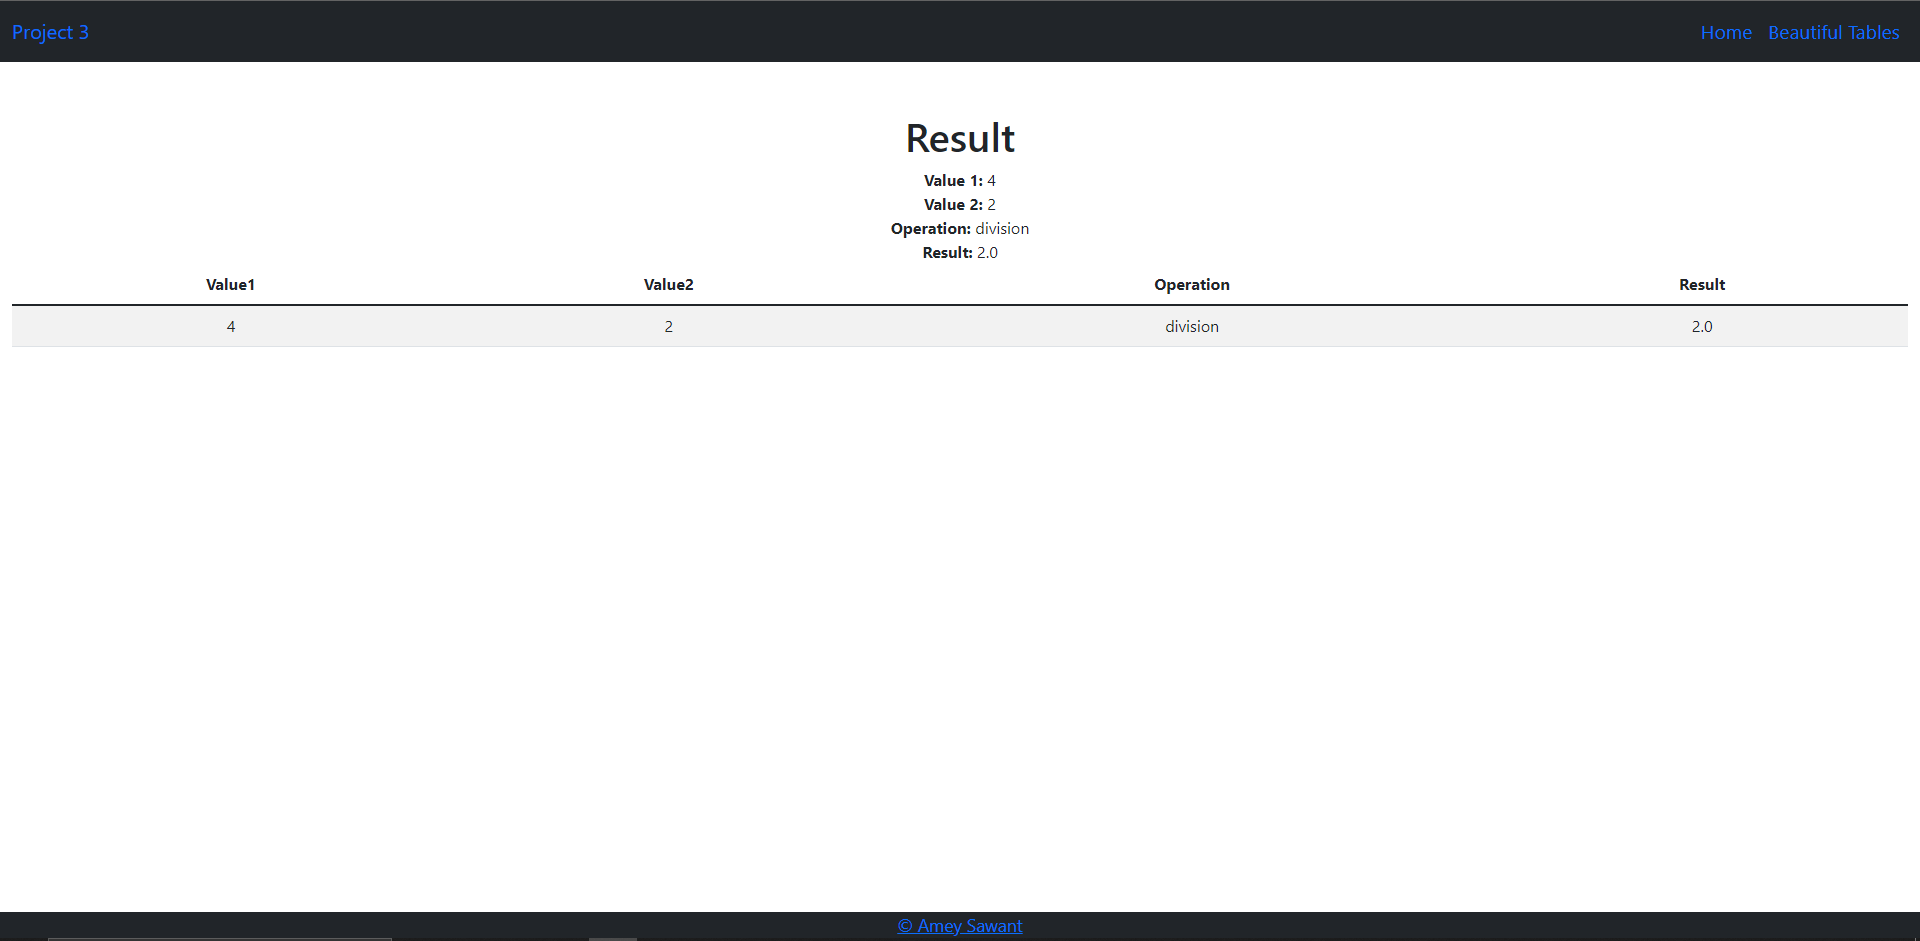
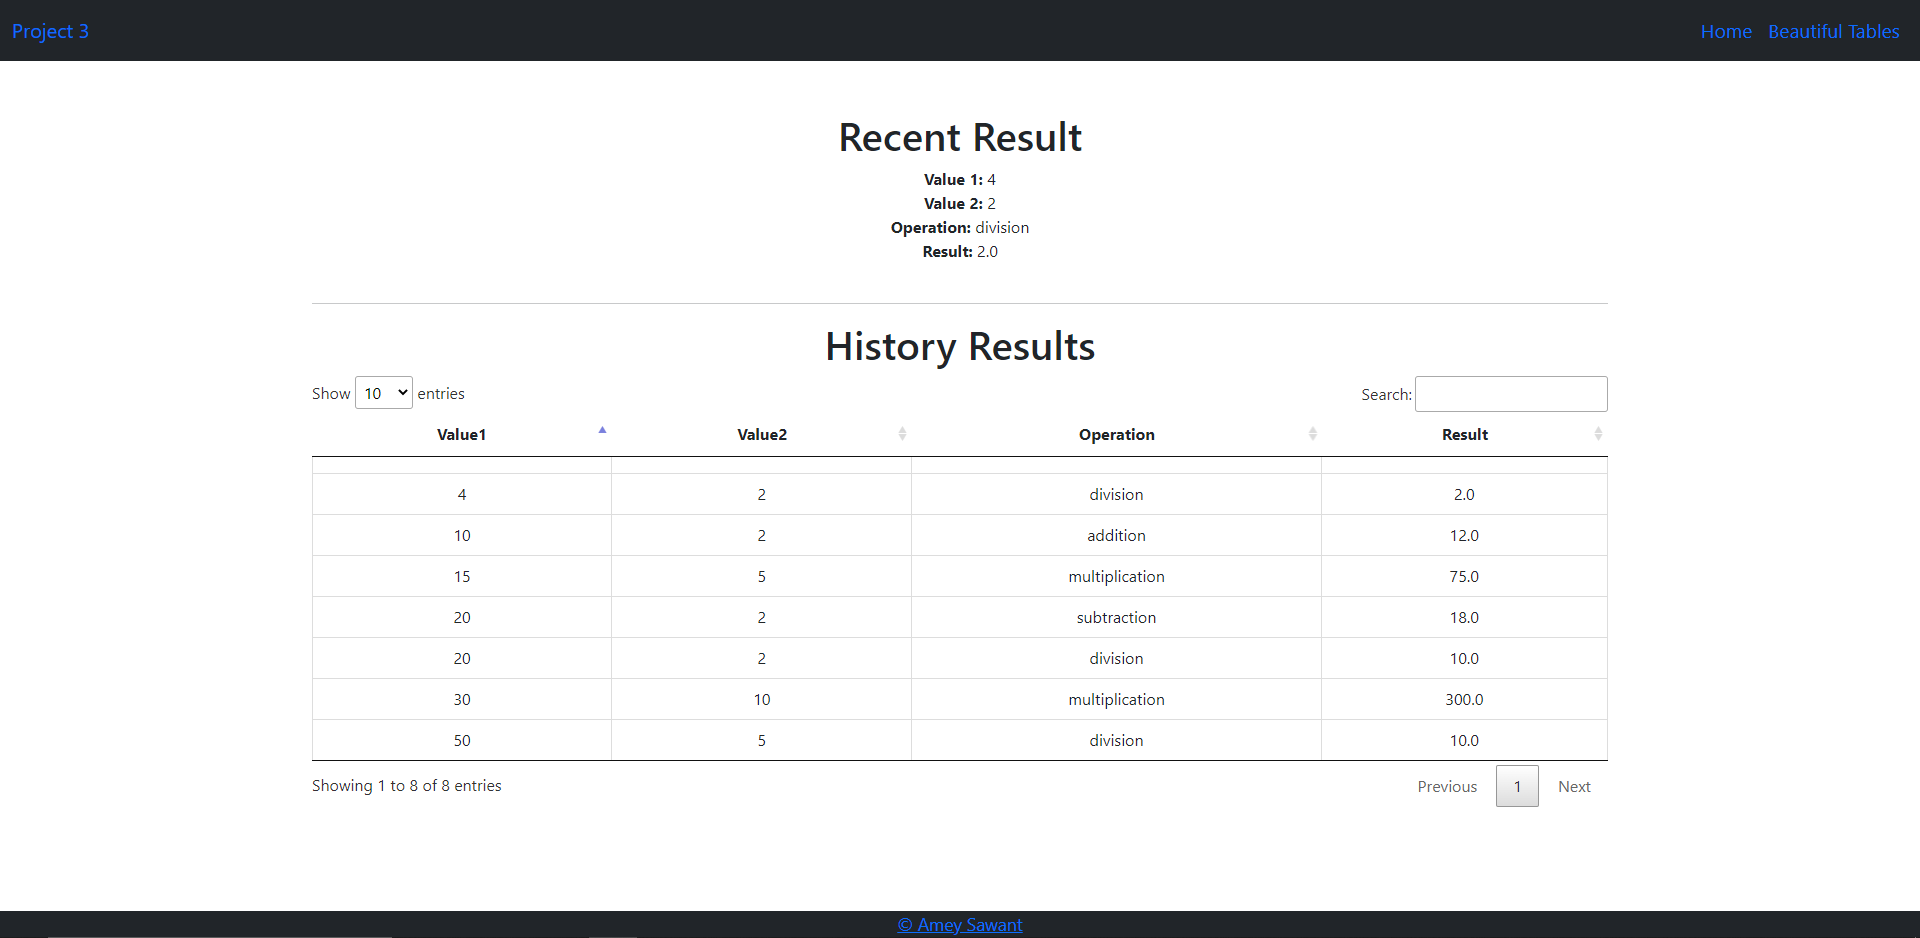
Beautiful Tables Updated

diff --git a/app/templates/result.html b/app/templates/result.html
@@ -3,30 +3,36 @@
 
 
 {% block content %}
-<h1>Result</h1>
-<strong>Value 1: </strong> {{ value1 }} <br>
-<strong>Value 2: </strong> {{ value2 }} <br>
-<strong>Operation: </strong> {{ operation }} <br>
-<strong>Result: </strong> {{ result }}
-<br/>
-
-<table id="data" class="table table-striped">
-    <thead>
-      <tr>
-        <th>Value1</th>
-        <th>Value2</th>
-        <th>Operation</th>
-        <th>Result</th>
-      </tr>
-    </thead>
-    <tbody>
+<div class="container">
+    <h1>Recent Result</h1>
+    <strong>Value 1: </strong> {{ val1 }} <br>
+    <strong>Value 2: </strong> {{ val2 }} <br>
+    <strong>Operation: </strong> {{ ope }} <br>
+    <strong>Result: </strong> {{ res }}
+    <br/><br/>
+    <hr/>
+    <h1>History Results</h1>
+    <table id="data" class="dataTable cell-border">
+        <thead>
         <tr>
-          <td>{{ value1 }}</td>
-          <td>{{ value2 }}</td>
-          <td>{{ operation }}</td>
-          <td>{{ result }}</td>
+            <th>Value1</th>
+            <th>Value2</th>
+            <th>Operation</th>
+            <th>Result</th>
         </tr>
-    </tbody>
-  </table>
-
+        </thead>
+        <tbody>
+        {% set list1 = hist.split('\n') %}
+        {% for item in list1 %}
+        {% set subitem = item.split(',') %}
+        <tr>
+            <td>{{ subitem[0] }}</td>
+            <td>{{ subitem[1] }}</td>
+            <td>{{ subitem[2] }}</td>
+            <td>{{ subitem[3] }}</td>
+        </tr>
+        {% endfor %}
+        </tbody>
+    </table>
+</div>
 {% endblock %}

diff --git a/app/templates/base.html b/app/templates/base.html
@@ -6,6 +6,7 @@
     <meta name="viewport" content="width=device-width, initial-scale=1">
     {% block head %}
     <link rel="stylesheet" href="{{ url_for('static', filename='css/mystyle.css') }}"/>
+    <link rel="stylesheet" href="https://cdn.datatables.net/1.11.3/css/jquery.dataTables.min.css">
     <title>{% block title %}{% endblock %} - My Webpage</title>
     {% endblock %}
     <!-- Bootstrap CSS -->
@@ -61,6 +62,12 @@
 <script src="https://maxcdn.bootstrapcdn.com/bootstrap/3.4.1/js/bootstrap.min.js"></script>
 <script src="https://res.cloudinary.com/dxfq3iotg/raw/upload/v1561436720/particles.js"></script>
 <script src="https://res.cloudinary.com/dxfq3iotg/raw/upload/v1561436735/app.js"></script>
+<script src="https://cdn.datatables.net/1.11.3/js/jquery.dataTables.min.js"></script>
+<script type="text/javascript">
+    $(document).ready(function () {
+        $('#data').DataTable();
+    });
+</script>
 <!-- Option 1: Bootstrap Bundle with Popper -->
 <script src="https://cdn.jsdelivr.net/npm/bootstrap@5.1.3/dist/js/bootstrap.bundle.min.js"
         integrity="sha384-ka7Sk0Gln4gmtz2MlQnikT1wXgYsOg+OMhuP+IlRH9sENBO0LRn5q+8nbTov4+1p"

diff --git a/app/app.py b/app/app.py
@@ -1,74 +1,3 @@
-# """A simple flask web app"""
-# from flask import Flask, request, flash
-# from flask import render_template
-# from calculator.main import Calculator
-#
-# app = Flask(__name__)
-#
-# app.secret_key = b'_5#y2L"F4Q8z\n\xec]/'
-#
-#
-# @app.route("/")
-# def index():
-#     """index  Route Response"""
-#     return render_template('index.html')
-#
-#
-# @app.route("/basicform", methods=['GET', 'POST'])
-# def basicform():
-#     """Post Request Handling"""
-#
-#     if request.method == 'POST':
-#         # get the values out of the form
-#         value1 = request.form['value1']
-#         value2 = request.form['value2']
-#         operation = request.form['operation']
-#
-#         # make the tuple
-#         my_tuple = (value1, value2)
-#
-#         # this will call the correct operation
-#         getattr(Calculator, operation)(my_tuple)
-#         result = str(Calculator.get_last_result_value())
-#         return render_template('result.html', value1=value1, value2=value2, operation=operation, result=result)
-#     # Displays the form because if it isn't a post it is a get request
-#     else:
-#         return render_template('/basicform.html')
-#
-#
-# @app.route("/basicform", methods=['GET', 'POST'])
-# def get_flashed_messages():
-#     # validate
-#     flash("Flash Test !!!")
-#
-#     # if request.form['value1'] == '':
-#     #     flash("Value1 cannot be empty !!!")
-#     # elif request.form['value2'] == '':
-#     #     flash("Value2 cannot be empty !!!")
-#     # else:
-#     #     flash("Performing calculation !!!")
-#
-#     return render_template('/basicform.html')
-#
-#
-#
-# @app.route("/bad/<value1>/<value2>")
-# def bad_calc(value1, value2):
-#     """bad calc Route Response"""
-#     result = value1 + value2
-#     response = "The result of the calculation is: " + result + '<a href="/"> back</a>'
-#     return response
-#
-#
-# @app.route("/good/<float:value1>/<float:value2>")
-# def good_calc(value1, value2):
-#     """good calc Route Response"""
-#     my_tuple = (value1, value2)
-#     ans = Calculator.addition(my_tuple)
-#     response = "The result of the calculation is: " + str(ans) + '<a href="/"> back</a>'
-#     return response
-#
-
 """A simple flask web app"""
 from flask import Flask
 from app.controllers.index_controller import IndexController

diff --git a/app/controllers/calculator_controller.py b/app/controllers/calculator_controller.py
@@ -26,7 +26,16 @@ class CalculatorController(ControllerBase):
             # this will call the correct operation
             getattr(Calculator, operation)(my_tuple)
             result = str(Calculator.get_last_result_value())
-            return render_template('result.html', value1=value1, value2=value2, operation=operation, result=result)
+
+            # write to file
+            str1 = value1 + "," + value2 + "," + operation + "," + result + '\n'
+            with open('output.txt', 'a+') as f:
+                f.write(str1)
+
+            with open('output.txt', 'r') as fr:
+                hist = fr.read()
+
+            return render_template('result.html', val1=value1, val2=value2, ope=operation, res=result, hist=hist)
         return render_template('basicform.html')
 
     @staticmethod

diff --git a/calculator/main.py b/calculator/main.py
@@ -10,7 +10,6 @@ class Calculator:
     def get_last_result_value():
         """ This is the gets the result of the calculation"""
         # I made this method so that I don't have more than one action per function
-        print(History.get_last_calculation_added())
         return History.get_last_calculation_added()
 
     @staticmethod
@@ -22,7 +21,6 @@ class Calculator:
     def subtraction(args: tuple):
         """ Subtracts given list of numbers and appends the result to history """
         return History.add_subtraction_to_history(args)
-
 
     @staticmethod
     def multiplication(args: tuple):

diff --git a/app/controllers/index_controller.py b/app/controllers/index_controller.py
@@ -1,6 +1,7 @@
 from app.controllers.controller import ControllerBase
 from flask import render_template
 
+
 class IndexController(ControllerBase):
     @staticmethod
     def get():
